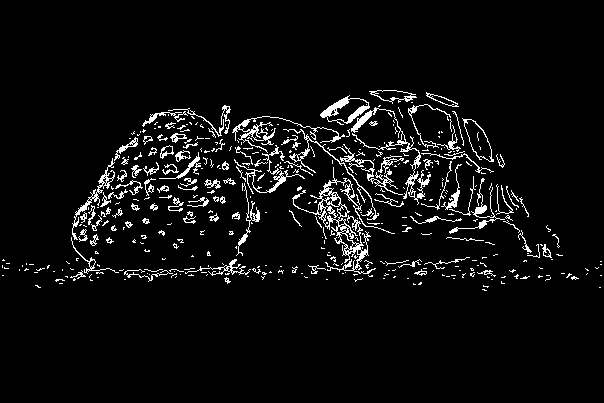
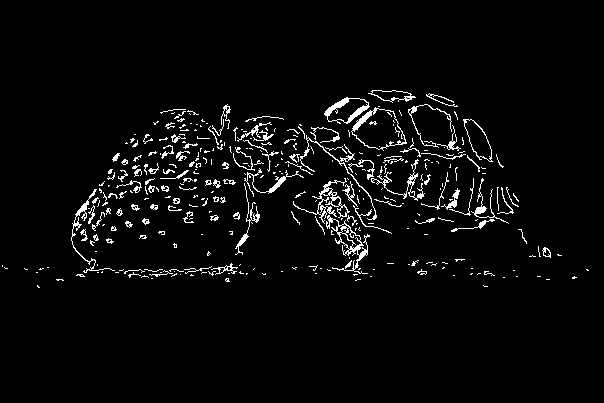
0.7.2 small refactor

diff --git a/CannyProject/CannyProject/Canny.cs b/CannyProject/CannyProject/Canny.cs
@@ -14,7 +14,6 @@ namespace CannyProject
 
         //Gaussian Kernel Data
         //Canny Edge Detection Parameters
-        private float _maxHysteresisThresh, _minHysteresisThresh;
         public int[,] GaussianFilterImage;
         public float[,] Gradient;
         public float[,] NonMax;
@@ -44,8 +43,7 @@ namespace CannyProject
             _clearGradientIfOtherNeighborhoodKoeefficient = clearGradientIfOtherNeighborhoodKoeefficient;
             _mainKoeefficient = mainKoeefficient;
             _colorKoeefficient = colorKoeefficient;
-            SetGaussianAndCannyParameters(inputImage, mainKoeefficient.MaxHysteresisThresh,
-                                          mainKoeefficient.MinHysteresisThresh);
+            ObjInputImage = inputImage;
             Execute();
         }
 
@@ -65,19 +63,19 @@ namespace CannyProject
                 var edgeMap3 = new int[objInputImage.Width, objInputImage.Height];
                 if (_colorKoeefficient.IsNeedRed)
                 {
-                    var greyImage1 = Test(objInputImage, true, false, false);
+                    var greyImage1 = ChangeColor(objInputImage, true, false, false);
                     var readImage = ReadImage(greyImage1, 1);
                     edgeMap1 = DetectCannyEdges(readImage);
                 }
                 if (_colorKoeefficient.IsNeedGreen)
                 {
-                    var greyImage2 = Test(objInputImage, false, true, false);
+                    var greyImage2 = ChangeColor(objInputImage, false, true, false);
                     var readImage = ReadImage(greyImage2, 1);
                     edgeMap2 = DetectCannyEdges(readImage);
                 }
                 if (_colorKoeefficient.IsNeedBlue)
                 {
-                    var greyImage3 = Test(objInputImage, false, false, true);
+                    var greyImage3 = ChangeColor(objInputImage, false, false, true);
                     var readImage = ReadImage(greyImage3,1);
                     edgeMap3 = DetectCannyEdges(readImage);
                 }
@@ -109,7 +107,7 @@ namespace CannyProject
             return DetectCannyEdges(greyImage);
         }
 
-        private Bitmap Test(Bitmap image, bool isNeedRed, bool isNeedGreen, bool isNeedBlue)
+        private Bitmap ChangeColor(Bitmap image, bool isNeedRed, bool isNeedGreen, bool isNeedBlue)
         {
             var outputImage = new Bitmap(image.Width, image.Height);
             for (int i = 0; i < outputImage.Width; i++)
@@ -126,14 +124,6 @@ namespace CannyProject
                 }
             }
             return outputImage;
-        }
-
-        private void SetGaussianAndCannyParameters(Bitmap inputImage, float maxHysteresisThresh,
-                                                   float minHysteresisThresh)
-        {
-            _maxHysteresisThresh = maxHysteresisThresh;
-            _minHysteresisThresh = minHysteresisThresh;
-            ObjInputImage = inputImage;
         }
 
         public Bitmap GetDisplayedImage(int[,] dispImage)
@@ -320,52 +310,37 @@ namespace CannyProject
             float pi;
             pi = (float) Math.PI;
 
-            var kernel = new float[kernelSize,kernelSize];
-            var gaussianKernel = new int[kernelSize,kernelSize];
+            var kernel = new float[kernelSize, kernelSize];
+            var gaussianKernel = new int[kernelSize, kernelSize];
 
-            float d1 = 1/(2*pi*sigma*sigma);
+            float d1 = 2*pi*sigma*sigma;
             float d2 = 2*sigma*sigma;
-
             float min = 1000;
-
-            for (var i = -kernelSize/2; i < kernelSize/2; i++)
+            var shift = kernelSize/2;
+            for (var i = 0; i < kernelSize; i++)
             {
-                for (var j = -kernelSize/2; j < kernelSize/2; j++)
+                for (var j = 0; j < kernelSize; j++)
                 {
-                    kernel[kernelSize/2 + i, kernelSize/2 + j] = ((1/d1)*(float) Math.Exp(-(i*i + j*j)/d2));
-                    if (kernel[kernelSize/2 + i, kernelSize/2 + j] < min)
-                        min = kernel[kernelSize/2 + i, kernelSize/2 + j];
-
+                    var x = i - shift;
+                    var y = j - shift;
+                    kernel[i, j] =((1/d1)*(float) Math.Exp(-(x*x + y*y)/d2));
+                    if (kernel[i, j] < min)
+                    {
+                        min = kernel[i, j];
+                    }
                 }
             }
             int mult = (int) (1/min);
             int sum = 0;
             if ((min > 0) && (min < 1))
             {
-                for (var i = -kernelSize/2; i < kernelSize/2; i++)
+                for (var i = 0; i < kernelSize; i++)
                 {
-                    for (var j = -kernelSize/2; j < kernelSize/2; j++)
+                    for (var j = 0; j < kernelSize; j++)
                     {
-                        kernel[kernelSize/2 + i, kernelSize/2 + j] =
-                            (float) Math.Round(kernel[kernelSize/2 + i, kernelSize/2 + j]*mult, 0);
-                        gaussianKernel[kernelSize/2 + i, kernelSize/2 + j] =
-                            (int) kernel[kernelSize/2 + i, kernelSize/2 + j];
-                        sum = sum + gaussianKernel[kernelSize/2 + i, kernelSize/2 + j];
-                    }
-                }
-            }
-            else
-            {
-                sum = 0;
-                for (var i = -kernelSize/2; i < kernelSize/2; i++)
-                {
-                    for (var j = -kernelSize/2; j < kernelSize/2; j++)
-                    {
-                        kernel[kernelSize/2 + i, kernelSize/2 + j] =
-                            (float) Math.Round(kernel[kernelSize/2 + i, kernelSize/2 + j], 0);
-                        gaussianKernel[kernelSize/2 + i, kernelSize/2 + j] =
-                            (int) kernel[kernelSize/2 + i, kernelSize/2 + j];
-                        sum = sum + gaussianKernel[kernelSize/2 + i, kernelSize/2 + j];
+                        kernel[i, j] = (float)Math.Round(kernel[i, j] * mult, 0);
+                        gaussianKernel[i, j] = (int)kernel[i, j];
+                        sum = sum + gaussianKernel[i, j];
                     }
                 }
             }
@@ -577,12 +552,12 @@ namespace CannyProject
             {
                 for (var j = limit; j <= (ObjInputImage.Height - limit) - 1; j++)
                 {
-                    if (PostHysteresis[i, j] >= _maxHysteresisThresh)
+                    if (PostHysteresis[i, j] >= _mainKoeefficient.MaxHysteresisThresh)
                     {
                         _edgePoints[i, j] = 1;
                         GNH[i, j] = 255;
                     }
-                    if ((PostHysteresis[i, j] < _maxHysteresisThresh) && (PostHysteresis[i, j] >= _minHysteresisThresh))
+                    if ((PostHysteresis[i, j] < _mainKoeefficient.MaxHysteresisThresh) && (PostHysteresis[i, j] >= _mainKoeefficient.MinHysteresisThresh))
                     {
                         _edgePoints[i, j] = 2;
                         GNL[i, j] = 255;
